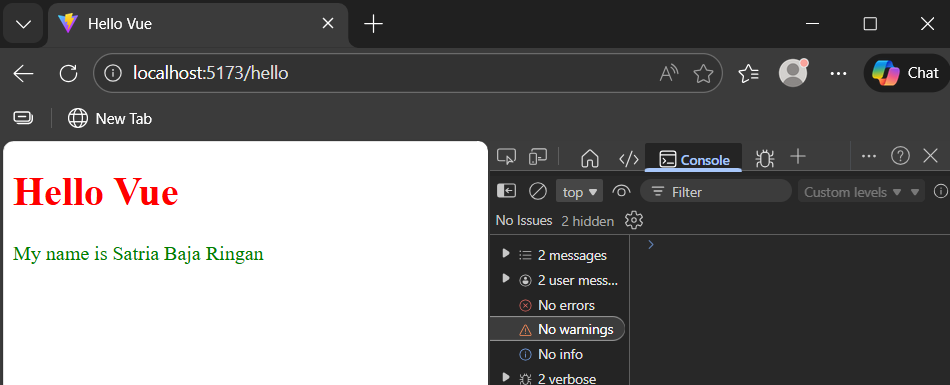
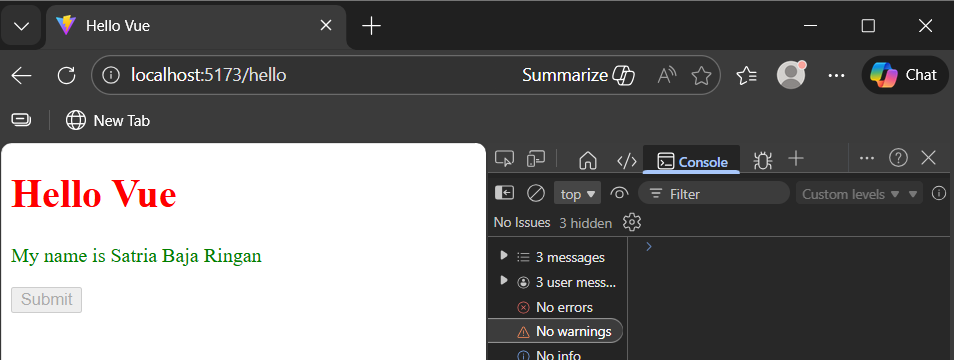
Lanjut besok

diff --git a/vue-js-dasar/README.md b/vue-js-dasar/README.md
@@ -260,7 +260,7 @@ Kalo component di panggil di HTML maka akan jadi `<HelloVue />` seperti tag Html
 
 </details>
 
-<details open>
+<details>
 <summary><h2>Templating Engine 📚</h2></summary>
 
 Vue menggunakan Templating Engine berupa component base, nah didalam templating ini ada banyak fitur yang Vue sediain buat Lo pake.
@@ -371,6 +371,12 @@ Salah satu feature yang ada di templating engine Vue adalah `text interpolation`
 
 Nah dengan ini artinya aman dari serangan XSS (Cross Site Scripting.), jadi misalnya ada yang iseng gitu kirim kode text dalam bentuk HTML, Vue ga akan tuh nampilin dalam bentuk HTML, tetapi akan nampilin sebagai plain text.
 
+Lo juga bisa pake method - method Javascipt di dalam `{{}}`. Tapi ga semua method bro, cuma beberapa aja nah lebih detailnya Lo bisa check disini bro <a href="https://github.com/vuejs/core/blob/main/packages/shared/src/globalsAllowList.ts#L3" target="_blank" rel="noopener noreferrer">Javascript Expressions</a>. Ini benerapa code Javascript yang ga boleh dipake di dalam `{{}}`.
+
+```html
+<p>My name is {{ name.toUpperCase() }}</p>
+```
+
 ### Raw HTML
 
 Tapi kadang Lo juga mesti ada tuh perlu menampilkan suatu HTML text, tapi sayangnya di Text Interpolation ini ga bisa. Vue punya directive untuk menanganinya yaitu `v-html`. `v-html` ini menjadi atribut HTML, Jadi yang sebelumnya `{{ heading }}` yang isinya `<h1>Hello Vue</h1>` maka akan tampil.
@@ -398,6 +404,8 @@ Mustache ga bisa digunakan pada attribute di Element kalo Lo pingin pake variabl
 
 Nah ini mungkin bakal sering banget dipake jadi Vue ini nyediain shortcut untuk membuat attribute binding `v-bind:nama-attribute` jadi `:nama-attribute`.
 
+Termasuk juga untuk value yang berupa boolean. Misalnya kalo Lo mau pake attribute `disabled` di Element HTML, Lo bisa pake `v-bind:disabled` atau `:disabled` juga.
+
 ```html
 <!-- src/components/HelloWorld.vue -->
 <script setup>
@@ -405,11 +413,13 @@ Nah ini mungkin bakal sering banget dipake jadi Vue ini nyediain shortcut untuk 
     const heading = '<h1>Hello Vue</h1>'
     const classHeading = 'heading'
     const className = 'name'
+    const disabledButton = true
 </script>
 
 <template>
     <div v-html="heading" v-bind:class="classHeading"></div>
     <p :class="className">My name is {{ name }}</p>
+    <button :disabled="disabledButton">Submit</button>
 </template>
 
 <style scoped>
@@ -423,5 +433,20 @@ Nah ini mungkin bakal sering banget dipake jadi Vue ini nyediain shortcut untuk 
 ```
 
 <img src="https://raw.githubusercontent.com/feri-irawansyah/docs/refs/heads/main/vue-js-dasar/assets/v-bind.png" class="img-fluid" alt="v-bind"/>
+
+Lo juga bisa bro pake 2 atribut bersamaan bro. Misanya pake `v-bind` dan `v-html` atau yang lainnya.
+
+```html
+<div v-html="heading" v-bind:class="classHeading"></div>
+```
+
+</details>
+
+<details>
+<summary><h2>Directives 📚</h2></summary>
+
+Sebelumnya Lo udah nyoba 2 directive Vue yaitu `v-html` sama `v-bind` selain itu masih banyak lagi bro, tapi atribut directive selalu berawalan `v-`. Directive ini bisa punya argument atau engga, kalo misalnya punya argument maka Lo bisa pake `:` tapi kalo ya ga punya argument kaya `v-html` itu ga boleh pake `:`.
+
+Selain itu Argument pada directive juga bisa menerima dynamic object atau data, misalnya Lo pingin isi atribut html `aria-label`, `class`, `href` dll dalam satu directive bisa caranya pake kurung kotak `[]`.
 
 </details>
